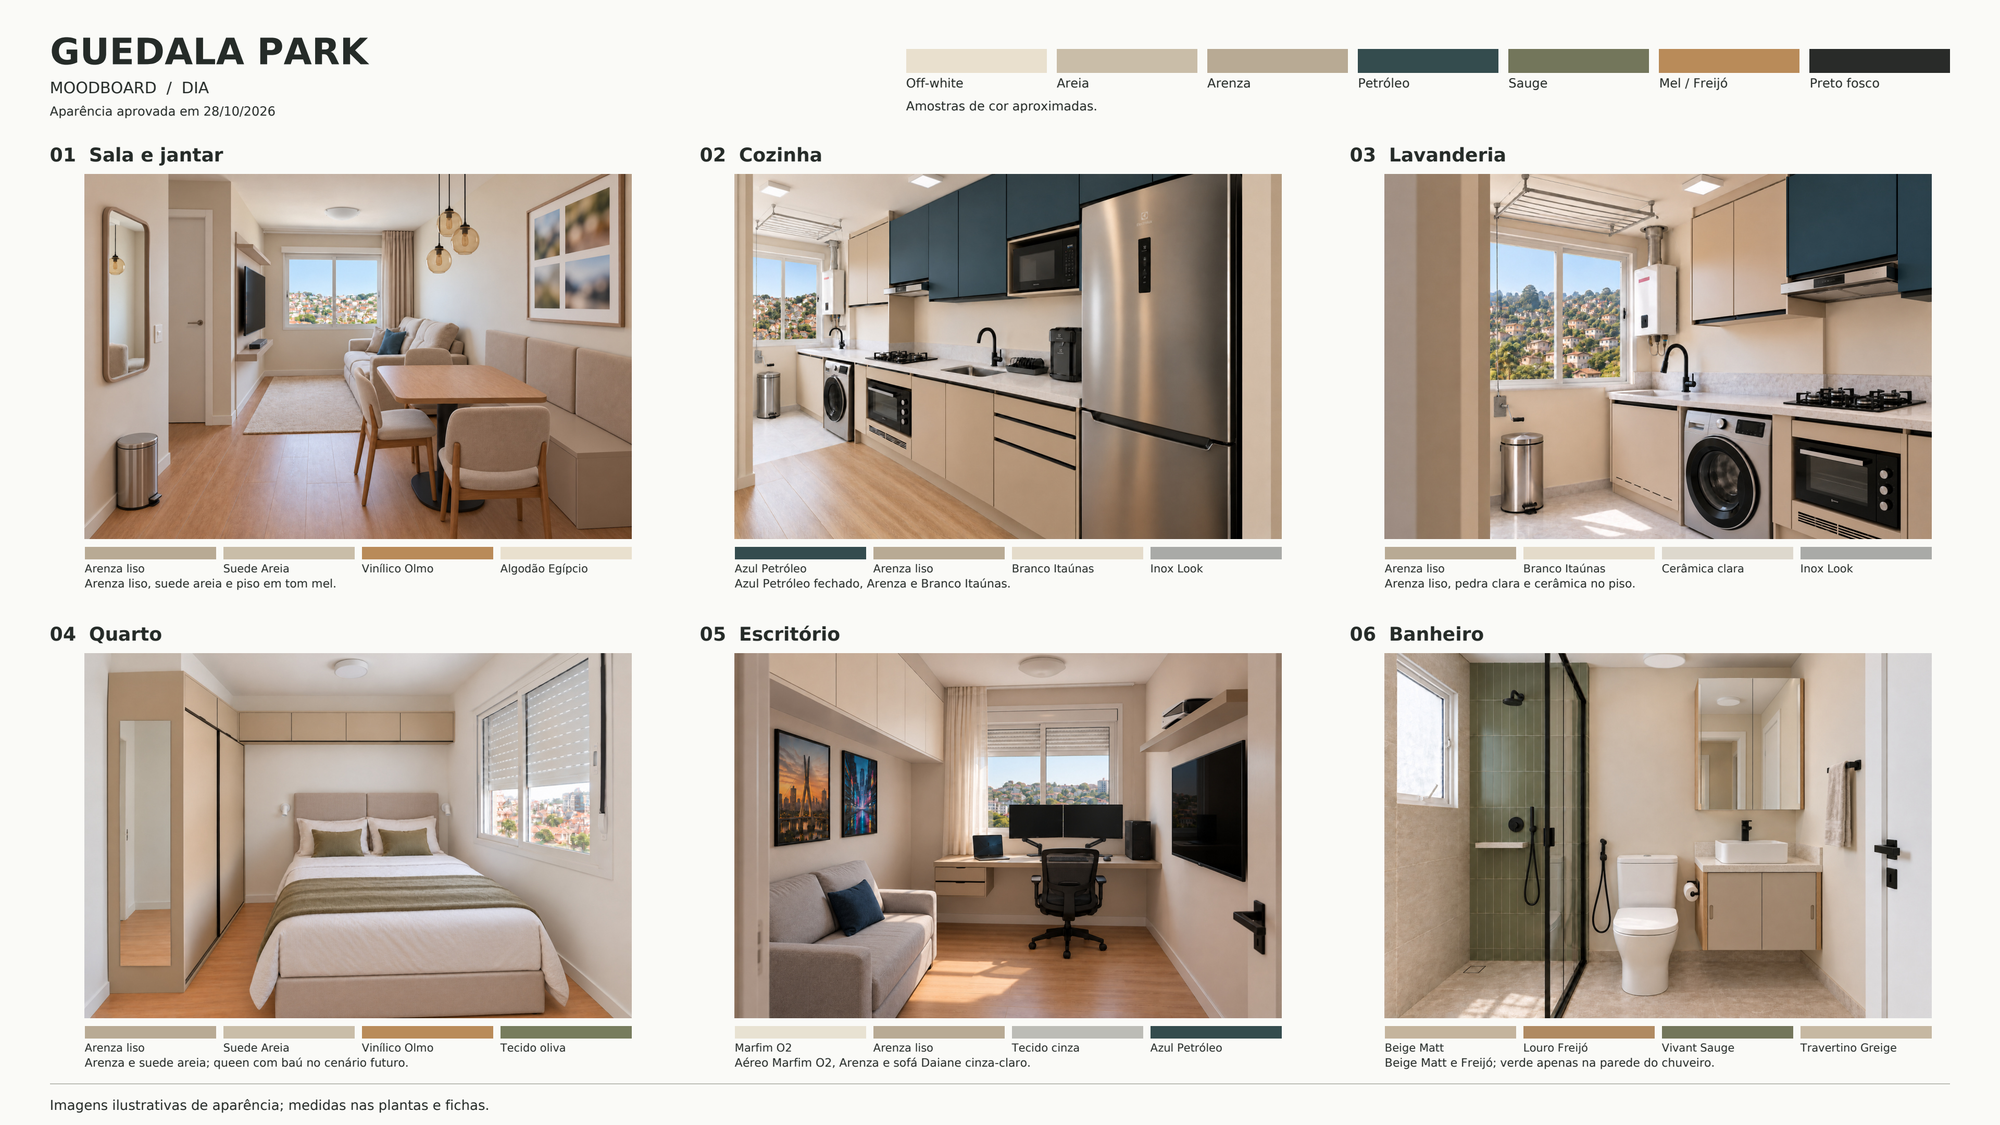
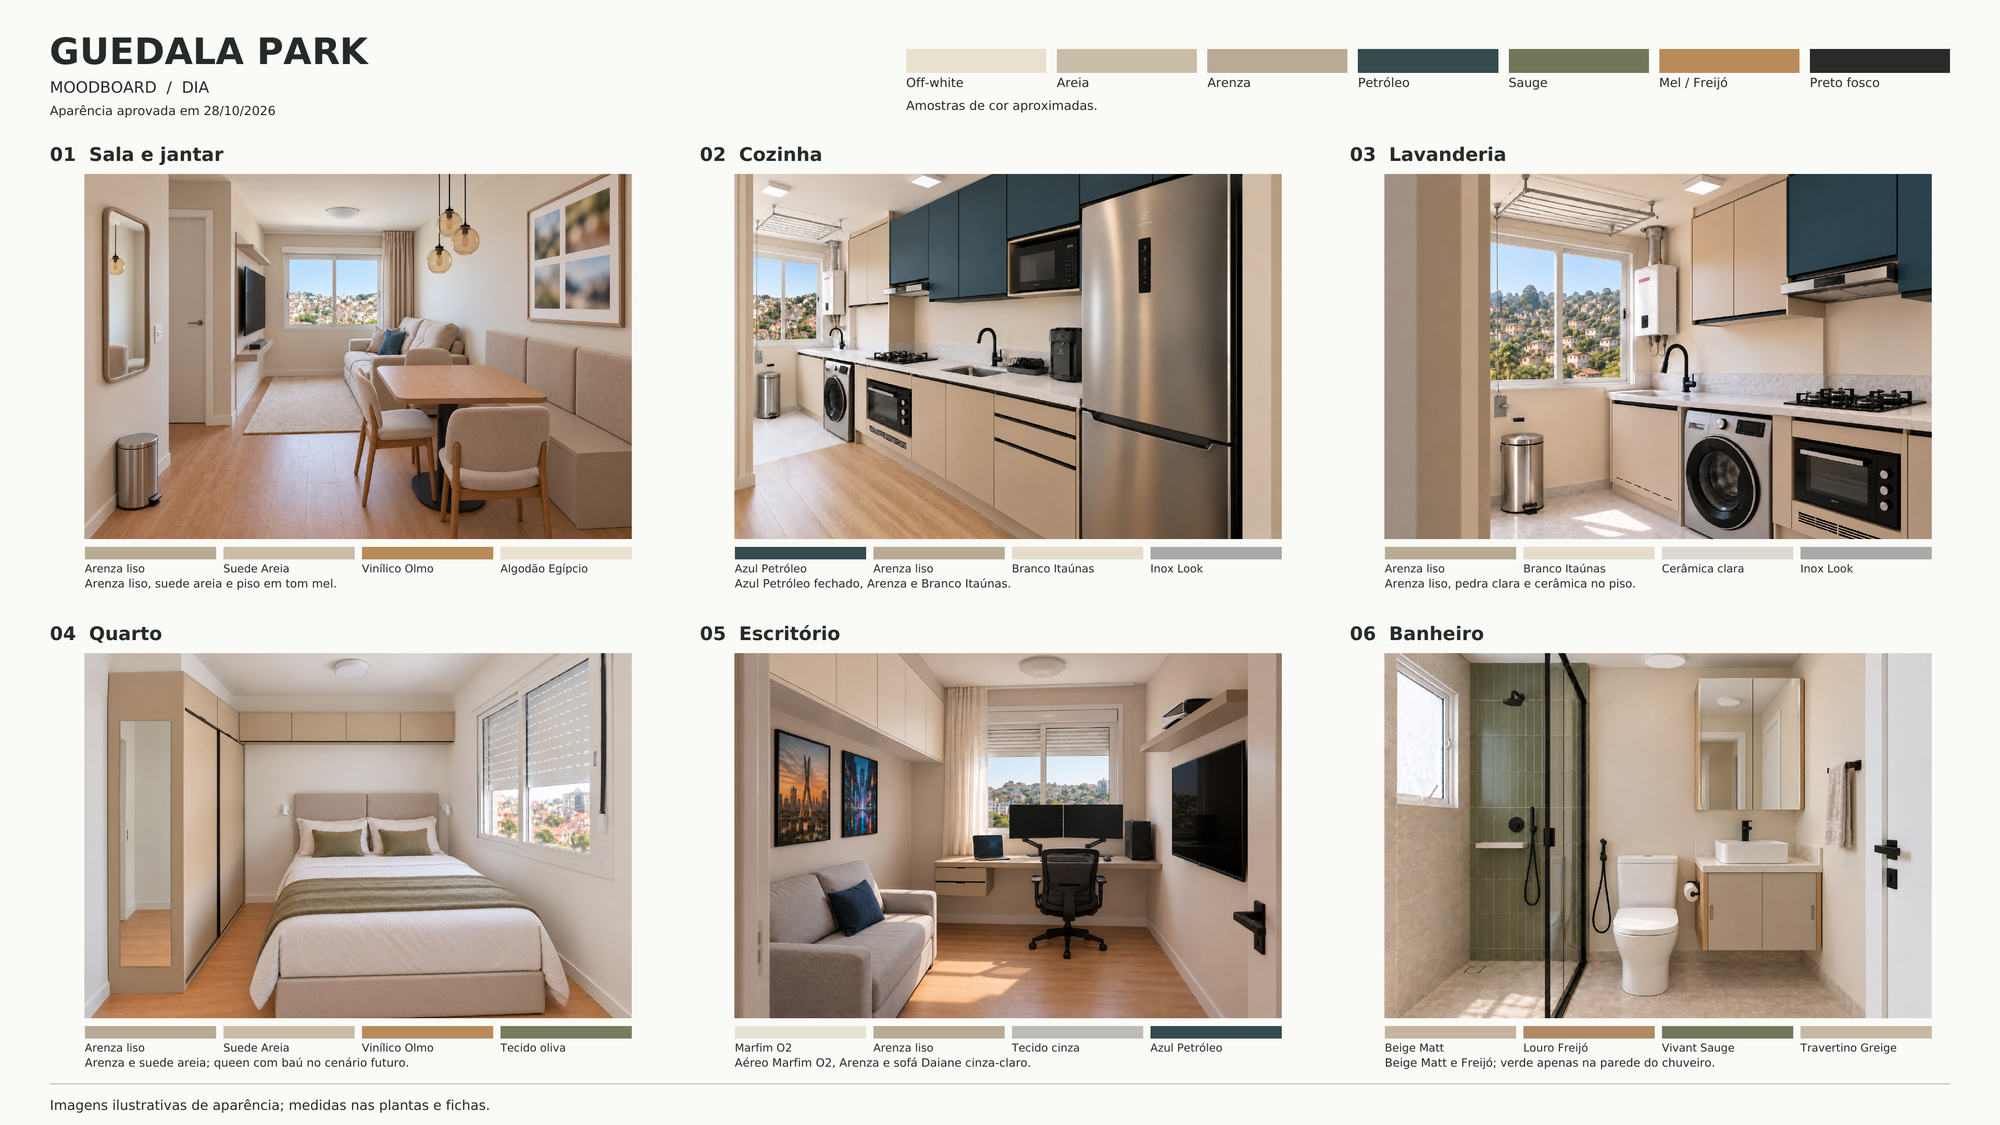
Moodboard: paineis renderizados de novo com Poppler; ferramentas locais documentadas
Os paineis de 29/10 tinham sido rasterizados por um substituto temporario.
Mesmo conteudo; ReportLab e Poppler agora ficam em ../ferramentas_locais.

diff --git a/ferramentas/moodboard/README.md b/ferramentas/moodboard/README.md
@@ -1,6 +1,6 @@
 # Composição do moodboard
 
-`python -B ferramentas/moodboard/gerar.py` produz os arquivos vigentes em `09_Referencias/`: dois painéis 4K/PNG leve, PDF de dois painéis, PDF de seis páginas A3 e galeria Dia/Noite. Requer Python com Pillow e ReportLab; Poppler (`pdftoppm`) no PATH. Se o TEMP padrão estiver restrito, configure TEMP/TMP para uma pasta temporária gravável fora do repositório.
+`python -B ferramentas/moodboard/gerar.py` produz os arquivos vigentes em `09_Referencias/`: dois painéis 4K/PNG leve, PDF de dois painéis, PDF de seis páginas A3 e galeria Dia/Noite. Requer Python com Pillow e ReportLab; Poppler (`pdftoppm`) no PATH. Neste computador, ambos ficam em `../ferramentas_locais/` (fora do git): rode antes `. ..erramentas_locaistivar.ps1` no PowerShell 7. Se o TEMP padrão estiver restrito, configure TEMP/TMP para uma pasta temporária gravável fora do repositório.
 
 As 12 imagens aprovadas são entradas imutáveis de 1536 × 1024 px. Nunca ampliar nem recortar as cenas; escala de composição do painel: 1050 × 700 px. PDF mantém 1536 × 1024 px, compressão JPEG qualidade 95/sem subamostragem, fontes Vera incorporadas e texto vetorial; PNG é renderizado do mesmo PDF. WebP mantém dimensões, qualidade 90, com acesso ao PNG original na galeria. `Moodboard.json` registra hashes e aprovação.
 
